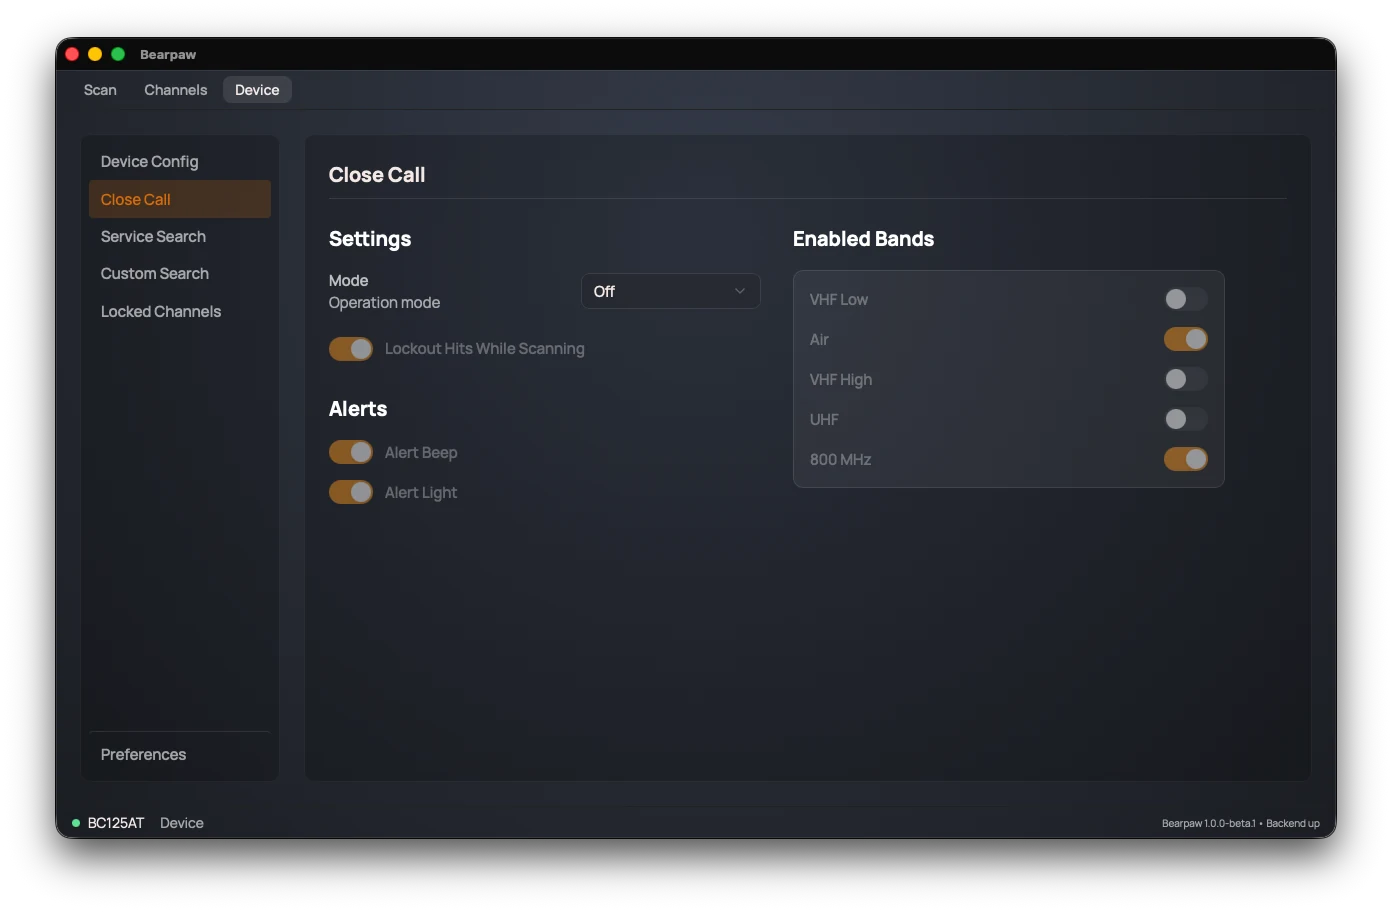
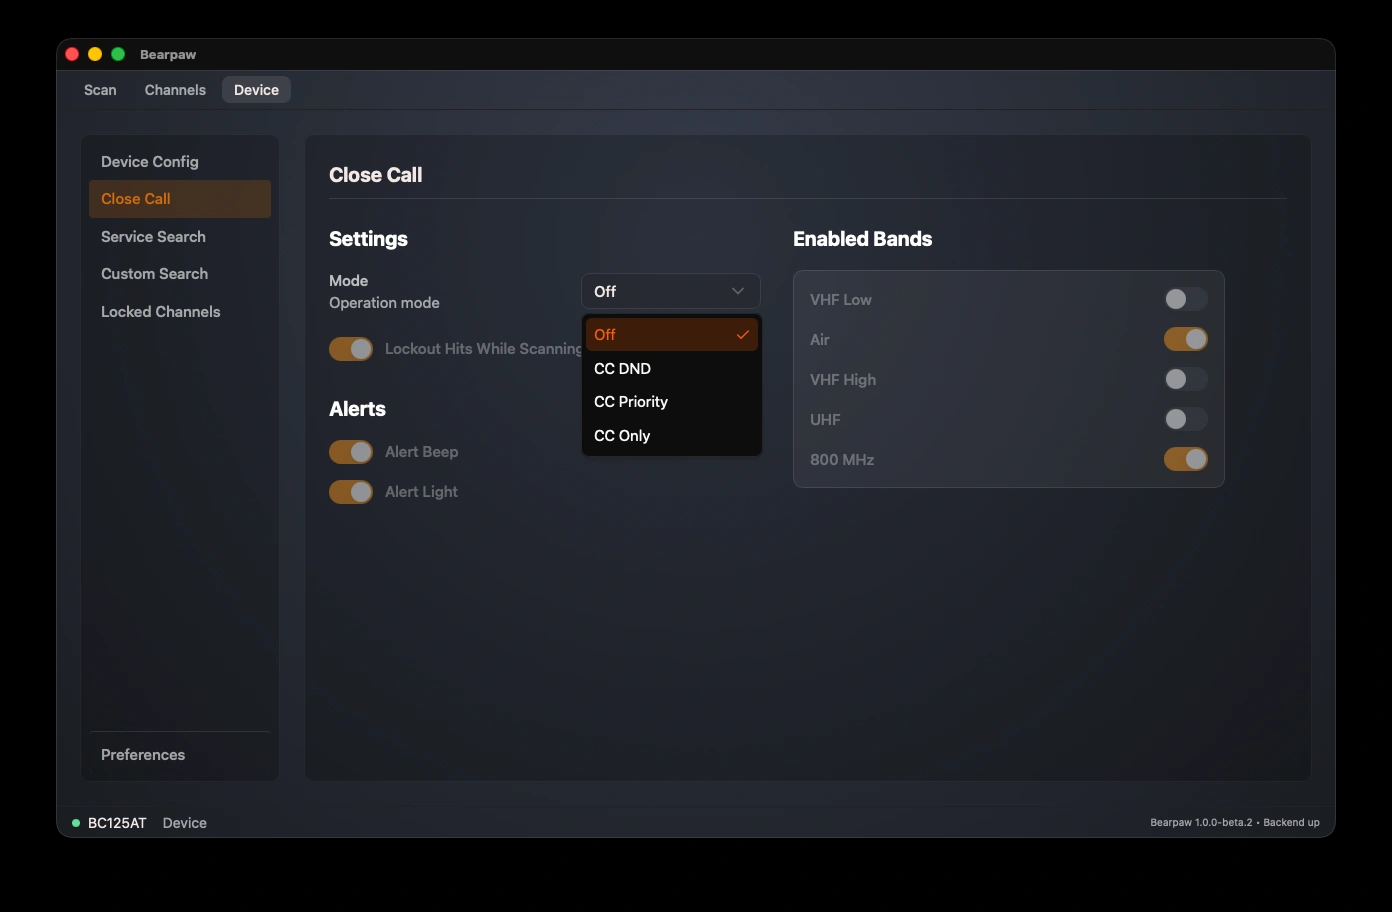
docs: record 2026-08-03 protocol findings, the update checker, and reshot screenshots (#360)
* docs: record the update checker and today's verified mode digits

Three gaps left by 2026-08-03's work. Most of the day self-documented
(Conflicts 4 and 5, the priority-swap verification, the rusb correction,
four new wire captures); these are what it didn't cover.

SCANNER_PROTOCOL_REFERENCE.md
- The `CLC` row still said "verify empirically" after the mode digits were
  verified twice on fw 1.06.06. Now records 0/1/2/3 and points at Conflict
  4. The band-bit layout is still genuinely unverified, so that half of the
  caveat stays.
- The `PRI` row gains the precondition from Conflict 5: the radio refuses
  to enter any priority mode while no channel carries the priority flag.

BC125AT_PROTOCOL.md
- §7.6 lists CLC modes 0/1/2 and omits `CC Only` = 3, which the hardware
  has and which Bearpaw now ships in both layers. Annotated rather than
  rewritten: the table is what the decompilation yielded, and editing it in
  place would destroy that provenance. Captures win, but the reference
  still records what the reference said.

CLAUDE.md
- The update checker (#273) had no doc presence at all — a new Tauri
  module, a new hook, and a new persisted preference. Adds a section for
  the three properties that are easy to break silently: check-and-notify
  only, every failure silent (offline-first), and betas-track-betas with
  its double policy check and max_by selection.
- Adds `useUpdateCheck` to the hooks list and a Desktop shell subsection
[…]

diff --git a/site/docs/preferences.html b/site/docs/preferences.html
@@ -55,7 +55,7 @@
         <figure class="docs-figure">
           <img
             src="assets/device-preferences.webp"
-            alt="The Preferences section: an About card with the app version and a GitHub link, a Buy me a coffee card, and Application Settings for Hit Minimum Duration and Data Retention."
+            alt="The Preferences section: an About card with the app version, a GitHub link and a Check for Updates button; a Support Dev card with a Buy me a coffee button; and Application Settings holding Hit Minimum Duration, a Show Log Files button, a Check for Updates on Launch toggle, and Data Retention."
           />
           <figcaption>Preferences — the app's own settings.</figcaption>
         </figure>
@@ -69,15 +69,40 @@
             app-side logging filter, separate from how the scanner behaves.
           </li>
           <li>
+            <strong>Show Log Files</strong>: opens the folder holding this
+            session's backend log on your computer. Useful when
+            <a href="troubleshooting.html">troubleshooting</a> a connection
+            problem, or when attaching a log to a bug report.
+          </li>
+          <li>
             <strong>Data Retention</strong>: 30 Days, 90 Days, or 1 Year. How long
             the app keeps its own activity and analytics logs before automatically
             deleting the old ones.
           </li>
+          <li>
+            <strong>Check for Updates on Launch</strong>: on or off. Asks GitHub
+            once at startup whether a newer release exists, and shows a
+            notification if one does. Turn it off and Bearpaw never contacts the
+            network on its own — you can still check any time from
+            <strong>Help &rarr; Check for Updates</strong>.
+          </li>
         </ul>
+        <div class="callout">
+          <p>
+            Bearpaw doesn't update itself. The notification's
+            <strong>Download</strong> button opens the release page in your
+            browser, and you install the new version the same way you installed
+            this one. If you're offline, the startup check fails silently — no
+            error, no delay, nothing to dismiss.
+          </p>
+        </div>
         <p>
-          The page also has an <strong>About</strong> card (the app version, and a
-          link to the project on GitHub) and a
-          <strong>Buy me a coffee</strong> link to support the developer.
+          The page also has an <strong>About</strong> card — the app version, a
+          link to the project on GitHub, and a
+          <strong>Check for Updates</strong> button that runs the same check as
+          the Help menu and always tells you the result, even when you're already
+          up to date. Below it, a <strong>Buy me a coffee</strong> link to support
+          the developer.
         </p>
         <nav class="docs-pagination" aria-label="Guide pages">
           <a class="page-prev" href="locked-channels.html"><span class="page-dir">← Previous</span><span class="page-title">Locked Channels</span></a>

diff --git a/site/docs/device-config.html b/site/docs/device-config.html
@@ -64,7 +64,7 @@
         <figure class="docs-figure">
           <img
             src="assets/device-config.webp"
-            alt="The Device Config section: Audio & Power (Volume, Squelch, Battery Saver), Display & System (Backlight, Contrast, Key Beep), Scanning Logic (Priority Mode, Weather Alert Priority), and a read-only Device Information card."
+            alt="The Device Config section with the Priority Mode dropdown open, listing Off, On, Plus, and DND. Around it: Audio & Power (Volume, Squelch, Battery Saver), Display & System (Backlight, Contrast, Key Beep), a Weather Alert Priority toggle, and a read-only Device Information card."
           />
           <figcaption>Device Config — the scanner's core settings.</figcaption>
         </figure>
@@ -108,11 +108,13 @@
         <ul>
           <li>
             <strong>Priority Mode</strong>: <strong>Off</strong>,
-            <strong>On</strong>, or <strong>Plus</strong>. Priority scan
-            periodically checks your
+            <strong>On</strong>, <strong>Plus</strong>, or
+            <strong>DND</strong>. Priority scan periodically checks your
             <a href="glossary.html#priority">priority channel</a> even while
             you're scanning or holding elsewhere, so you don't miss traffic on a
-            channel that matters.
+            channel that matters. <strong>DND</strong> ("Do Not Disturb") only
+            checks between transmissions, so it won't cut into a call you're
+            already listening to.
           </li>
           <li>
             <strong>Weather Alert Priority</strong>: on or off. Watches for the
@@ -120,6 +122,14 @@
             weather.
           </li>
         </ul>
+        <div class="callout">
+          <p>
+            Priority modes need a priority channel to watch. If no channel is
+            flagged as priority, the scanner won't engage any of these modes and
+            Bearpaw shows a warning under the dropdown — flag a channel on the
+            <a href="channels.html">Channels page</a> first.
+          </p>
+        </div>
 
         <h2 id="device-information">Device Information</h2>
         <p>

diff --git a/site/docs/close-call.html b/site/docs/close-call.html
@@ -65,13 +65,13 @@
         <figure class="docs-figure">
           <img
             src="assets/device-close-call.webp"
-            alt="The Close Call section: a Mode dropdown, Lockout Hits While Scanning toggle, Alert Beep and Alert Light toggles, and Enabled Bands switches for VHF Low, Air, VHF High, UHF, and 800 MHz."
+            alt="The Close Call section with the Mode dropdown open, listing Off, CC DND, CC Priority, and CC Only. Behind it: a Lockout Hits While Scanning toggle, Alert Beep and Alert Light toggles, and Enabled Bands switches for VHF Low, Air, VHF High, UHF, and 800 MHz."
           />
           <figcaption>Close Call — nearby-strong-signal detection.</figcaption>
         </figure>
 
         <h2 id="mode">Mode</h2>
-        <p><strong>Mode</strong> is the master switch, with three settings:</p>
+        <p><strong>Mode</strong> is the master switch, with four settings:</p>
         <ul>
           <li><strong>Off</strong>: Close Call disabled.</li>
           <li>
@@ -82,6 +82,12 @@
           <li>
             <strong>CC Priority</strong>: checks continuously, interrupting other
             activity to catch close calls the moment they happen.
+          </li>
+          <li>
+            <strong>CC Only</strong>: listens for close calls and nothing else —
+            normal scanning stops entirely. Useful when you only care about
+            nearby transmitters, but you won't hear your programmed channels
+            while it's on.
           </li>
         </ul>
         <div class="callout">

diff --git a/site/docs/troubleshooting.html b/site/docs/troubleshooting.html
@@ -115,7 +115,9 @@
           </table>
         </div>
 
-        <p><strong>Help</strong> opens in your web browser.</p>
+        <p>
+          <strong>Help</strong> — the first two items open in your web browser.
+        </p>
         <div class="table-wrap">
           <table>
             <thead>
@@ -127,6 +129,8 @@
             <tbody>
               <tr><td>Documentation</td><td>The project README on GitHub</td></tr>
               <tr><td>GitHub Issues</td><td>Where to report bugs</td></tr>
+              <tr><td>Show Log Files</td><td>Opens the app's log folder on your computer</td></tr>
+              <tr><td>Check for Updates…</td><td>Asks GitHub whether a newer release exists, and always tells you either way</td></tr>
               <tr><td>About Bearpaw</td><td>Version and credits</td></tr>
             </tbody>
           </table>

diff --git a/CLAUDE.md b/CLAUDE.md
@@ -211,7 +211,21 @@ VITE_WS_URL=                # auto-detect from window.location if empty
 - [`frontend/src/store/useStore.ts`](frontend/src/store/useStore.ts) — Zustand store
 - [`frontend/src/api/client.ts`](frontend/src/api/client.ts) — REST client
 - [`frontend/src/websocket/ScannerWebSocket.ts`](frontend/src/websocket/ScannerWebSocket.ts) — WS client with auto-reconnect
-- [`frontend/src/hooks/`](frontend/src/hooks/) — `useConnectionStatus`, `useActivityLogTracker`, `useActivityLogHydrate`, `useDashboardAnalytics`, `useShellStatusText`, `useKeyboardShortcuts`, `useMenuEvents`
+- [`frontend/src/hooks/`](frontend/src/hooks/) — `useConnectionStatus`, `useActivityLogTracker`, `useActivityLogHydrate`, `useDashboardAnalytics`, `useShellStatusText`, `useKeyboardShortcuts`, `useMenuEvents`, `useUpdateCheck`
+
+### Desktop shell (Tauri)
+- [`frontend/src-tauri/src/main.rs`](frontend/src-tauri/src/main.rs) — shell entry point, sidecar backend, menu wiring
+- [`frontend/src-tauri/src/updates.rs`](frontend/src-tauri/src/updates.rs) — update check against the GitHub Releases API
+
+## Update checks
+
+The desktop shell checks GitHub Releases for a newer version (#273). Three properties are deliberate and easy to break:
+
+1. **Check-and-notify only.** There is no in-app download, signature verification, or self-replacement — the toast's Download button opens the release page in a browser. Real self-update needs `tauri-plugin-updater`, a minisign keypair in CI, and a Developer ID cert (the bundle is ad-hoc signed today, so a swapped bundle would be Gatekeeper-quarantined).
+2. **Every failure is silent.** Bearpaw is offline-first, so `check_for_updates` returns "no update" on *any* transport, status, or parse failure. A user with no network must never see an error, a toast, or a stall. The startup check is silent unless an update exists; the manual check (Help → Check for Updates) always reports, including "you're up to date," because a menu item that appears to do nothing reads as broken.
+3. **Betas track betas.** A prerelease is only ever offered to a user already running a prerelease; stable users are never pushed onto a beta. The policy is applied twice — against GitHub's `prerelease` flag *and* against the parsed tag — because the flag is what GitHub was told while the tag is the truth. Selection uses `max_by`, not first-match: GitHub returns releases newest-*created* first, which is not newest-*version* when a patch to an older line ships later.
+
+Gated by the `check_updates_on_launch` preference (default `true`, toggled on the Device tab). The startup check waits for preferences to load rather than acting on a default that may be about to change. `updates.rs` carries unit tests plus an `#[ignore]`d live test against the real API (`cargo test -p bearpaw-desktop -- --ignored`).
 
 ## Documentation
 

diff --git a/docs/SCANNER_PROTOCOL_REFERENCE.md b/docs/SCANNER_PROTOCOL_REFERENCE.md
@@ -351,8 +351,8 @@ The BC125AT/BCT125AT protocol does **not expose battery level**. Treat any `batt
 | `SSG` / `SSG,<mask>` | Service-search bank mask | Same 0=on / 1=off convention. Banks: Police, Fire/Emerg, Ham, Marine, Railroad, Civil Air, Mil Air, CB, FRS/GMRS/MURS, Racing. |
 | `CSG` / `CSG,<mask>` | Custom-search range mask | Same convention |
 | `CSP,n` | Get/set custom range `n` upper/lower limits | |
-| `CLC` | Close Call config (mode, alert, band mask, lockout) | **Band-bit layout differs between PDF v1.00 and v1.01** — verify empirically |
-| `PRI` / `PRI,n` | Priority mode | 0 off / 1 on / 2 plus / 3 DND |
+| `CLC` | Close Call config (mode, alert, band mask, lockout) | Mode digits **verified 2026-08-03**: `0` off / `1` priority / `2` DND / `3` **only**. Mode 3 (`CC Only`) is absent from `BC125AT_PROTOCOL.md` §7.6 — the reference is incomplete, not wrong. See Conflict 4. **Band-bit layout still differs between PDF v1.00 and v1.01** — that part remains unverified. |
+| `PRI` / `PRI,n` | Priority mode | 0 off / 1 on / 2 plus / 3 DND, all four **verified 2026-08-03**. Undocumented precondition (Conflict 5): the radio refuses to enter *any* priority mode while no channel carries the priority flag — it shows "Priority Scan: No Channel" and the selection does not stick. Mode reachability therefore depends on channel state outside the priority UI. |
 | `KBP` | Key beep & keypad lock | |
 | `BSV,n` | Battery save / charge time | 1–16 hours |
 | `WXS` | Weather alert priority | |

diff --git a/docs/BC125AT_PROTOCOL.md b/docs/BC125AT_PROTOCOL.md
@@ -638,6 +638,19 @@ buffer when a hit occurs).
 | Priority | `1` |
 | DND | `2` |
 
+> **Incomplete — hardware has a fourth mode (2026-08-03).** The table above is
+> what the decompilation yielded and is preserved as-is; `0`/`1`/`2` are
+> confirmed correct on fw 1.06.06. But the radio also has **`CC Only` = `3`**,
+> which this reference omits entirely. Verified by walking all four modes from
+> the keypad with baseline-last ordering, so every reading is a real transition
+> (`docs/wire_captures/2026-08-03/clc-mode-probe-cc-only.txt`). Bearpaw ships
+> `0..=3` in both layers. See Conflict 4 in
+> `docs/wire_captures/2026-05-21/audit-reconciliation.md`.
+>
+> Worth generalizing: two independent references agreeing on a range is not
+> evidence the range is *complete*. A probe that only exercises documented
+> values cannot discover this.
+
 ### 7.7 Key Beep (`KBP` `<beep>` field)
 
 | Display | Wire |
